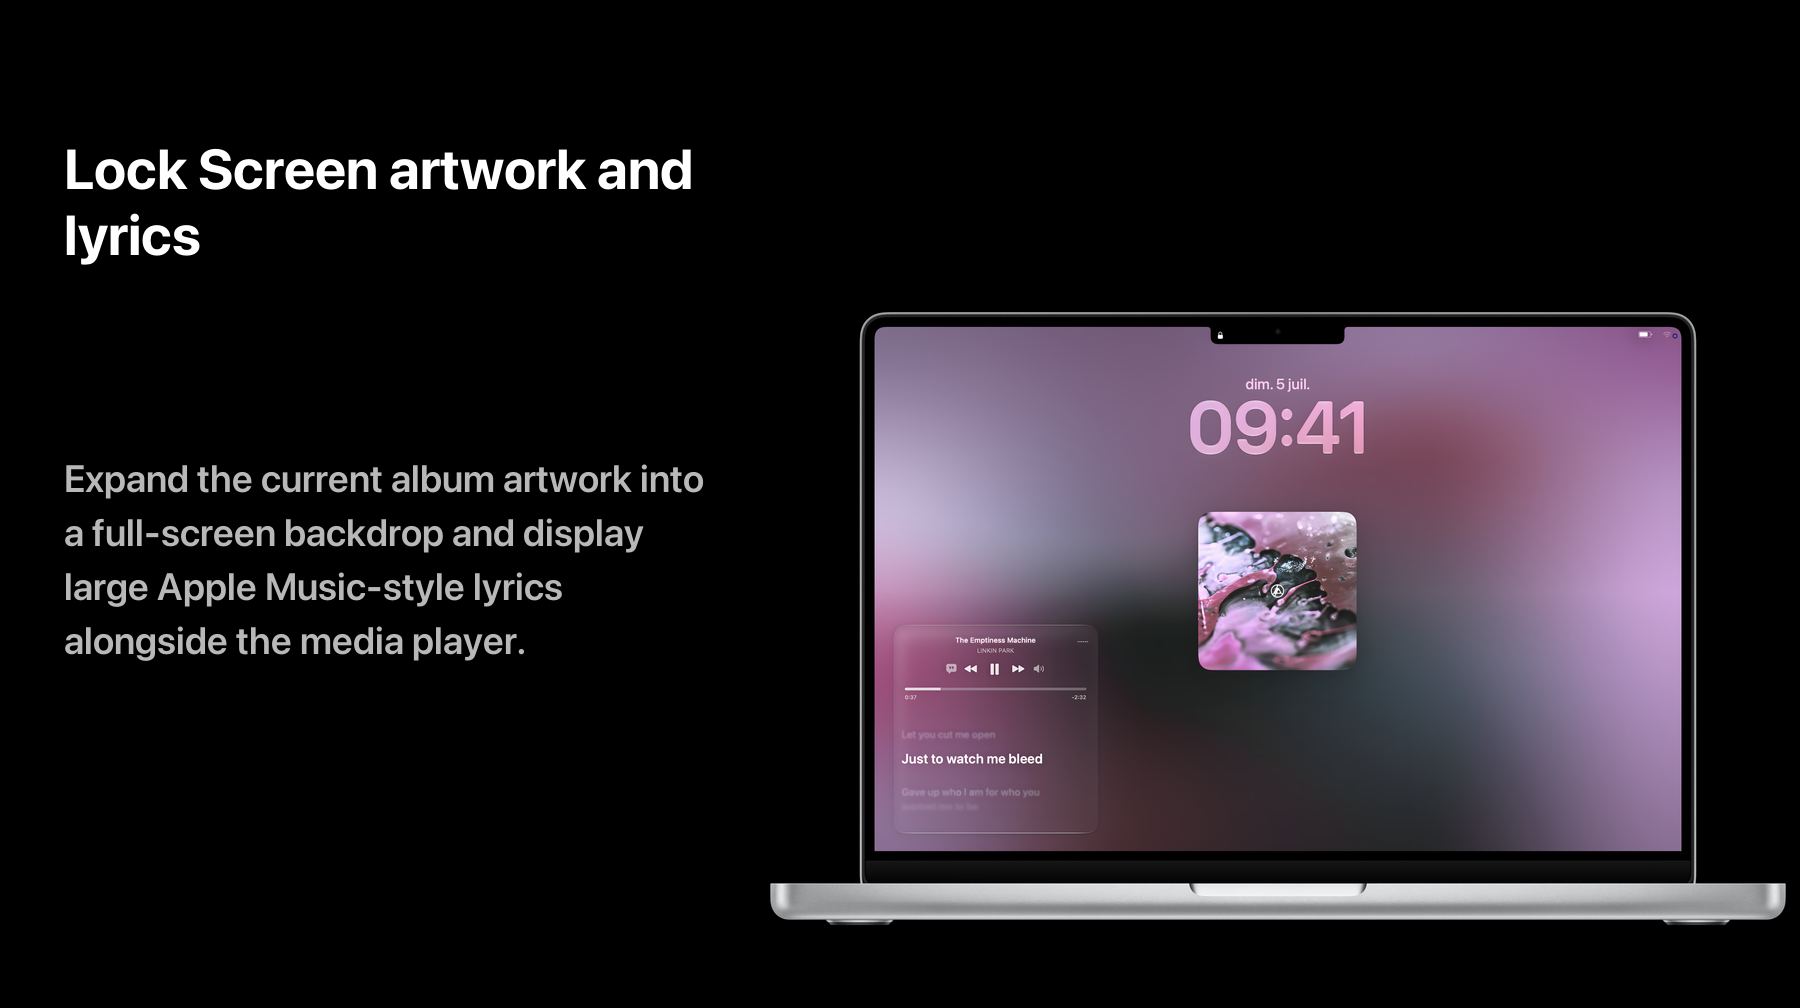
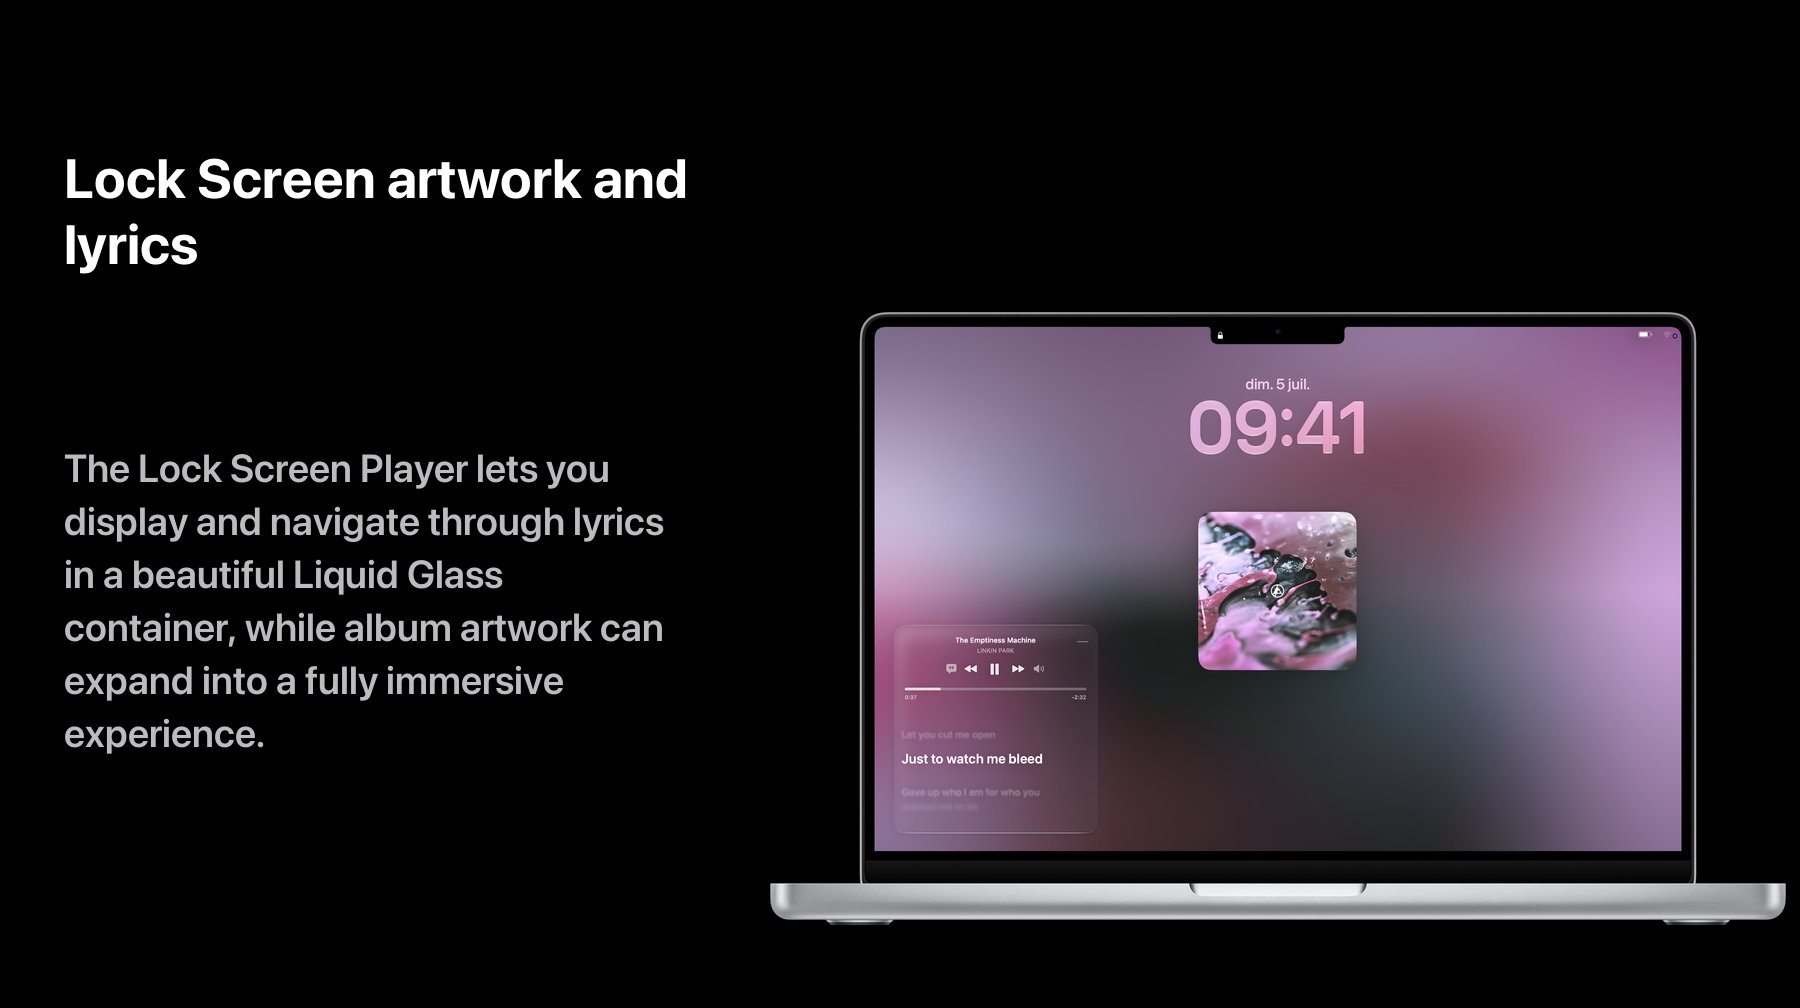
Update README showcase copy

Changed region(s): [[0.0311, 0.4306, 0.4044, 0.7381], [0.0311, 0.1538, 0.4044, 0.2768]]

diff --git a/README.md b/README.md
@@ -43,13 +43,6 @@ QuartzNotch transforms the MacBook notch into a compact command center for the t
   </tr>
   <tr>
     <td align="center">
-      <h3>Lock Screen experiences</h3>
-      <p>Show a refined Lock Screen player, fullscreen album artwork, Apple Music-style lyrics, and Live Activities for music and timers directly where they make sense.</p>
-      <br><br>
-    </td>
-  </tr>
-  <tr>
-    <td align="center">
       <h3>Live Activities for macOS</h3>
       <p>Bring music, timers, Bluetooth, battery, focus, shelf, and media states into the notch with custom animations and a layout designed for quick glances.</p>
       <br><br>
